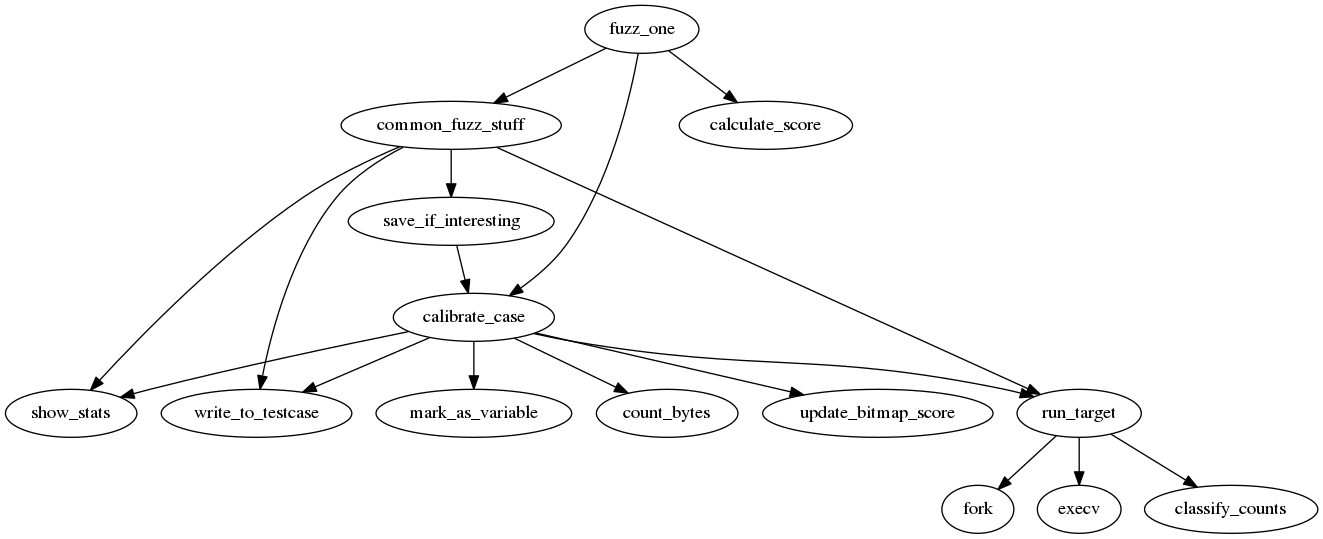
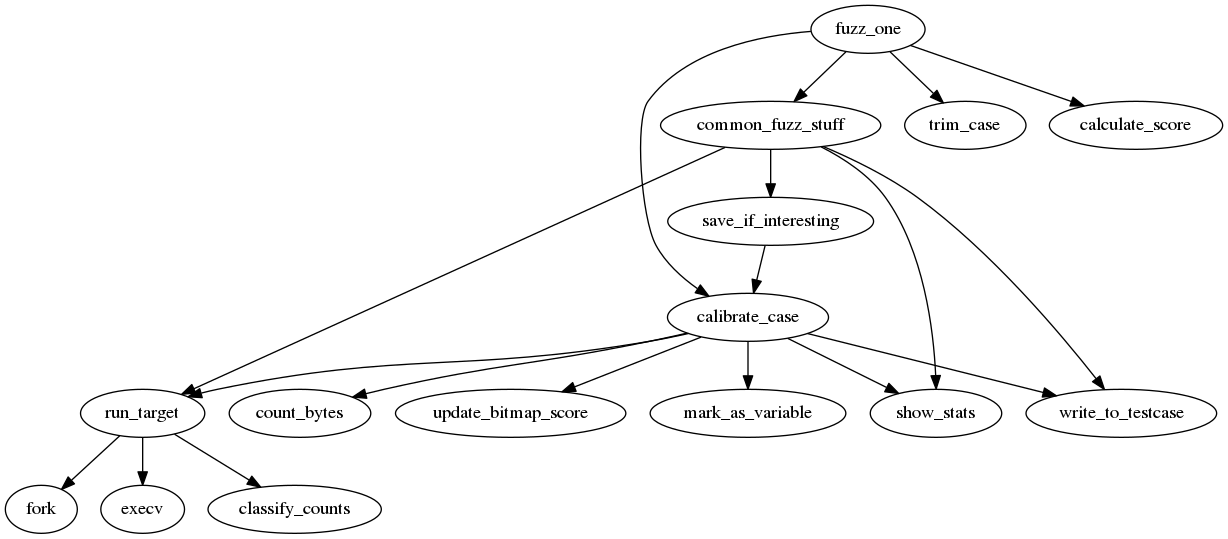
Update AFL.md

diff --git a/tools/research/AFL.md b/tools/research/AFL.md
@@ -8,8 +8,16 @@ The core part is in `fuzz_one` function.
 
 The call graph of `fuzz_one` is like this:
 
-![call graph of fuzz_one](./afl-fuzz_cg_fuzz_one.png)
+The logic of `fuzz_one`:
+1. If there are favored cases pending and the current one case
+   has been fuzzed or is not a favored case, then skip it; otherwise,
+   even if there are no favored testcases, non-favored cases still can
+   be skipped with some probability.
+2. open the file saved in `queue_curr` and map its content to memory;
+3. call `calibrate_case` to calibrate the input if previously calibrated in failure.
+4. 
 
+![call graph of fuzz_one](./afl-fuzz_cg_fuzz_one.png)
 
 ## bitmap
 
@@ -32,6 +40,40 @@ How does this work?
 
 ## scoring the input
 
+`update_bitmap_score`:
+
+For each byte in the bitmap, a pointer to the best rated testcase
+is saved.
+
+The metric for measuring the goodness of a testcase is "runtime * size"
+meanting that, the faster the program finishes or, the smaller the testcase,
+the better it is deemed to be.
+
+The score of a test case is calculated in calibration stage.
+
+`calibrate_case`:
+
+Run the testcase multiple times, check whether it is variable or not
+Then update the score of it by calling `update_bitmap_score`.
+
+`calculate_score`:
+
+This function is used to calculate the performance score.
+Basically, it adjust the value according to the running time
+of the testcase, the coverage and the depth.  The longer the running time,
+the lower the score, the larger the coverage, the better the
+perf score.
+
+In fuzzing with some testcase, the perf score is calculated after
+the calibration and trimming stage, and used in the havoc stage.
+Basically the larger the perf score, the more havoc mutations will
+be applied to the testcase.
+
+
+## trimming input
+
+The algorithm for trimming the testcase is in `write_with_gap`.
+
 ## pending_favored
 
 How does this work?
@@ -43,3 +85,11 @@ How does this work?
 1. When AFL found no new inputs, it will try using testcase splicing
    by setting `use_splicing` to 1 and and update the number of cycles
    without new inputs.
+
+2. Each new testcase is first calibrated(to detect whether it is variable
+   and update its score).
+
+3. Each new testcase is trimmed. it works by removing some bytes in the
+   testcase and then running it and check whether the checksum of the bitmap
+   changes or not. If the checksum does does not change, the original testcase
+   is replaced with the trimmed testcase.
